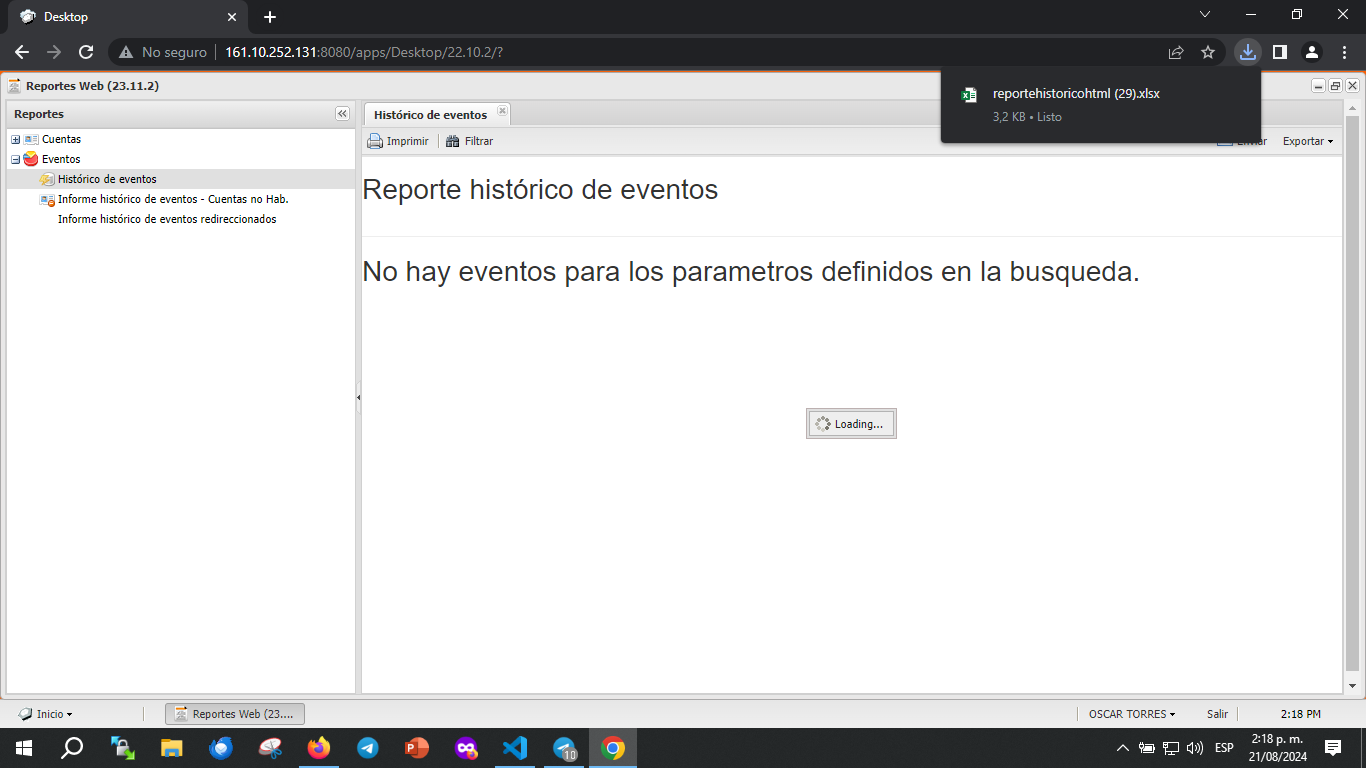
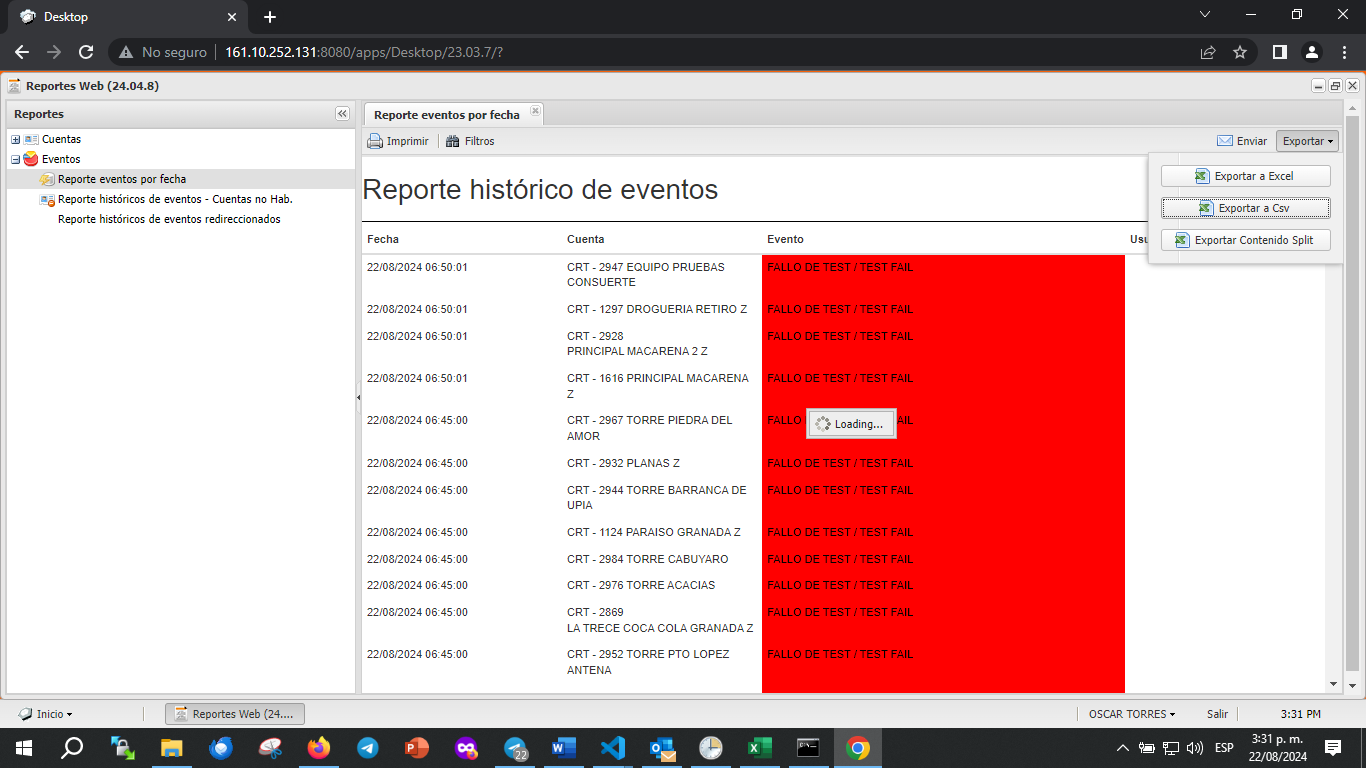
version funcional, ajuste de logs y puebas con el programador de tareas

diff --git a/main.py b/main.py
@@ -13,8 +13,8 @@ tupla_filtro = (
             'logo_censel.png',
             'logo_reportes_web.png',
             'eventos.png', 
-            'historico_de_eventos.png',
-            'filtrar.png',) 
+            'reporte_eventos_por_fecha.png',
+            'filtros.png',) 
 
 tupla_postformulario = (    
             'buscar.png',
@@ -22,12 +22,12 @@ tupla_postformulario = (
             'exportar_a_csv.png')
 
 horarios_procesos = [
-    ('baterias', fecha_desde, fecha_hasta, '7:00 AM', '12:00', '19:00', 'FALLO DE BATERIA / BATTERY FAILURE - LOW'), #funciona
-    ('baterias', fecha_desde, fecha_hasta, '7:00 AM', '00:00', '12:00', 'FALLO DE BATERIA / BATTERY FAILURE - LOW'), #funciona
-    ('intrusion', fecha_ayer, fecha_hoy, '7:00 AM', '19:00', '07:00', 'INTRUSION - BUR'), #funciona
-    ('fallo_test', fecha_ayer, fecha_hoy, hora_actual, '19:00', '07:00', 'FALLO DE TEST / TEST FAIL - FTS'),  #funciona
-    ('panico', fecha_ayer, fecha_ayer, '7:00 AM', '00:00', '23:50', 'PANICO - PAN') #funciona
-    ]
+    ('baterias1', fecha_desde, fecha_hasta, '7:00 PM', '12:00', '19:00', 'FALLO DE BATERIA / BATTERY FAILURE - LOW'), #funciona
+    ('baterias2', fecha_desde, fecha_hasta, '12:00 PM', '00:00', '12:00', 'FALLO DE BATERIA / BATTERY FAILURE - LOW'), #funciona
+    ('intrusion', fecha_ayer, fecha_hoy, '8:05 AM', '19:00', '07:00', 'INTRUSION - BUR'), #funciona
+    ('fallo_test', fecha_ayer, fecha_hoy, '8:10 AM', '19:00', '07:00', 'FALLO DE TEST / TEST FAIL - FTS'),  #funciona
+    ('panico', fecha_ayer, fecha_ayer, '8:15 AM', '00:00', '23:50', 'PANICO - PAN') #funciona
+    ] #hora_actual
 # count: nos devuelve el numero de veces que se repite un elemento
 # index: Nos devuelve la posicion de la primera aparicion de un elemento.c 
 
@@ -68,17 +68,18 @@ def mensaje_telegram(mensaje, ruta_imagen, nombre_imagen, carpeta, nombre_proces
         with open(ruta_imagen, 'rb') as img_file:
             img_data = img_file.read()
         bot.send_photo(chat_id=TELEGRAM_CHAT_ID, photo=img_data, caption=contenido_mensaje, parse_mode='HTML')
-
+    elif mensaje == 'horarios_diferentes':
+        contenido_mensaje += (f'\n La hora de ejecucion: {horario} del proceso de {nombre_proceso} no coincide con la hora actual, favor validar.')
+        bot.send_message(chat_id=TELEGRAM_CHAT_ID, text=contenido_mensaje)
 
 def obtener_coordenadas_imagen_pantalla(ruta_imagen):
     try:
         coordenadas = pyautogui.locateOnScreen(ruta_imagen, confidence=0.9)
         #if coordenadas:
             #coordenadas = (coordenadas.left, coordenadas.top)
-        print(f"Coordenadas imagen: {coordenadas}")
+        logging.info(f"Ruta imagen {ruta_imagen}. Coordenadas: {coordenadas}")
         return coordenadas
     except Exception:
-        print(f"No hay Imagen.")
         logging.error(f'No se encontro la imagen {ruta_imagen} en la pantalla')
         logging.error(Exception)
         logging.error('Error en la funcion: obtener_coordenadas_imagen_pantalla.')
@@ -96,7 +97,6 @@ def obtener_ruta_imagenes(nombre_imagen):
         if os.path.exists(ruta_imagen) and os.path.isfile(ruta_imagen): 
             return ruta_imagen
         
-        print(f"No existe la imagen ({nombre_imagen}) en la carpeta ({carpeta})"); 
         logging.error(f"No existe la imagen ({nombre_imagen}) en la carpeta ({carpeta})")
         return mensaje_telegram('error_ruta_imagen', ruta_imagen, nombre_imagen, carpeta, None, None, None)
     except Exception as e:
@@ -112,7 +112,7 @@ def obtener_captura_pantalla(nombre_captura, carpeta):
     ruta_captura = os.path.join(ruta_errores, nombre_modificado)
     try:
         pyautogui.screenshot(ruta_captura)
-        print(f"Captura de pantalla exitosa --> Nombre: {nombre_captura} --> carpeta: {carpeta}")
+        logging.info(f"Captura de pantalla exitosa --> Nombre: {nombre_captura} --> carpeta: {carpeta}")
         return ruta_captura
     except Exception as e:
         logging.error(f" Error al capturar: {e}")
@@ -129,6 +129,7 @@ def iniciar_filtro(img):
                 time.sleep(5)
                 pyautogui.click(coordenadas_ruta_imagen)
                 time.sleep(5)
+                logging.info(f'Se hizo click en: {img}')
                 ruta_captura = obtener_captura_pantalla(img, 'screenshots')
                 ruta_imagen = obtener_ruta_imagenes(ruta_captura)
                 if ruta_imagen:
@@ -145,6 +146,7 @@ def iniciar_filtro(img):
                 time.sleep(1)
                 pyautogui.doubleClick(coordenadas_ruta_imagen)
                 time.sleep(5)
+                logging.info(f'Se hizo click en: {img}')
                 ruta_captura = obtener_captura_pantalla(img, 'screenshots')
                 ruta_imagen = obtener_ruta_imagenes(ruta_captura)
                 if ruta_imagen:
@@ -155,7 +157,7 @@ def iniciar_filtro(img):
                     mensaje_telegram(img, ruta_imagen, None, None, None, None, img)
                     return False
     except Exception as e:
-        logging.error(f'Ocurrio un error en el filtro: {e}')
+        logging.error(f'Ocurrio un error al tratar de encontrar la imagen en la pantalla y dar click: {e}')
         logging.error('Ocurrio un error en la funcion: iniciar_filtro.')
         logging.error(f'Parametro recibido en iniciar_filtro: {img}')
 
@@ -169,9 +171,15 @@ def recorrer_formulario_filtrar():
         print('hola')
         for nombre_proceso, fecha_desde, fecha_hasta, hora_ejecucion, hora_desde, hora_hasta, codigo_alarma in horarios_procesos:
         # PROCESo 2
-            print('hola2')            
+            print('hola2')
+            print('hora ejecucion:', hora_ejecucion)
+            print('hora actual: ', hora_actual)            
             if  hora_ejecucion == hora_actual:
-                print('proceso: ', nombre_proceso)
+                logging.info(f'Proceso a ejecutar: {nombre_proceso}, Hora ejecucion: {hora_ejecucion}, Hora actual: {hora_actual}')
+                print('nombre_proceso:')
+                print('hora ejecucion:', hora_ejecucion)
+                print('hora actual: ', hora_actual)            
+                print('proceso: ', nombre_proceso, 'fecha_desde: ', fecha_desde, 'fecha_hasta: ', fecha_hasta, 'hora_ejecucion:', hora_ejecucion, 'hora_desde: ', hora_desde, 'hora_hasta:', hora_hasta, 'codigo_alarma: ', codigo_alarma)
                 time.sleep(1)
                 pyautogui.write(fecha_desde, interval=0.1)            
                 time.sleep(1)
@@ -195,22 +203,31 @@ def recorrer_formulario_filtrar():
                 time.sleep(1)
                 ruta_captura = obtener_captura_pantalla('filtrando_proceso.png', 'screenshots')
                 mensaje_telegram('filtrando_proceso', ruta_captura, None, None, nombre_proceso, hora_ejecucion, None)
+                print('proceso: ', nombre_proceso, 'fecha_desde: ', fecha_desde, 'fecha_hasta: ', fecha_hasta, 'hora_ejecucion:', hora_ejecucion, 'hora_desde: ', hora_desde, 'hora_hasta:', hora_hasta, 'codigo_alarma: ', codigo_alarma)
 
-        print('hola3')
-        iniciar_filtro(tupla_postformulario[0])
-        no_hay_eventos = obtener_ruta_imagenes('no_hay_eventos.png')
-        coordenadas_no_hay_eventos = obtener_coordenadas_imagen_pantalla(no_hay_eventos)
-
-        if coordenadas_no_hay_eventos:
-            print('Hola4')
-            ruta_captura = obtener_captura_pantalla('no_hay_eventos.png', 'screenshots')
-            mensaje_telegram('no hay eventos', ruta_captura, None, None, nombre_proceso, None, None)
-            logging.error(f'No se encontraron eventos para descargar el archivo excel en el proceso de {nombre_proceso}, mensaje enviado al telegram')
-            logging.error('Se cancela la ejecucion del proceso censel')
-        else:
-            print('ejecuntando tupla_postforulario')
-            for img in tupla_postformulario:
-                iniciar_filtro(img)
+                print('hola3')
+                iniciar_filtro(tupla_postformulario[0])
+                time.sleep(10)
+                no_hay_eventos = obtener_ruta_imagenes('no_hay_eventos.png')
+                coordenadas_no_hay_eventos = obtener_coordenadas_imagen_pantalla(no_hay_eventos)
+                print('coordenadas no hay eventos antes del if: ', coordenadas_no_hay_eventos)
+                if coordenadas_no_hay_eventos != 'error':
+                    print('coordenadas no hay eventos antes del if: ', coordenadas_no_hay_eventos)
+                    print('Hola4')
+                    print(f'no hay eventos, nombre proceso: {nombre_proceso}')
+                    logging.error(f'no hay eventos, nombre proceso: {nombre_proceso}')
+                    ruta_captura = obtener_captura_pantalla('no_hay_eventos.png', 'screenshots')
+                    mensaje_telegram('no hay eventos', ruta_captura, None, None, nombre_proceso, None, None)
+                    logging.error(f'No se encontraron eventos para descargar el archivo excel en el proceso de {nombre_proceso}, mensaje enviado al telegram')
+                    logging.error('Se cancela la ejecucion del proceso censel')
+                else:
+                    print('ejecuntando tupla_postforulario')
+                    for img in tupla_postformulario:
+                        iniciar_filtro(img)
+            else:
+                logging.error(f'El horario {hora_ejecucion} no coincide con la hora actual {hora_actual}')
+                mensaje_telegram('horarios_diferentes', None, None, None, nombre_proceso, hora_ejecucion, None)
+                break
     except Exception as e:
         logging.error(f'Error en la funcion: recorrer_formulario_filtrar: {e}')
 
@@ -251,6 +268,7 @@ def iniciar_sesion():
 
         time.sleep(10)
         for img in tupla_filtro:
+            logging.info('Se inicia ingreso a reportes web')
             iniciar_filtro(img)
         
         recorrer_formulario_filtrar() 
